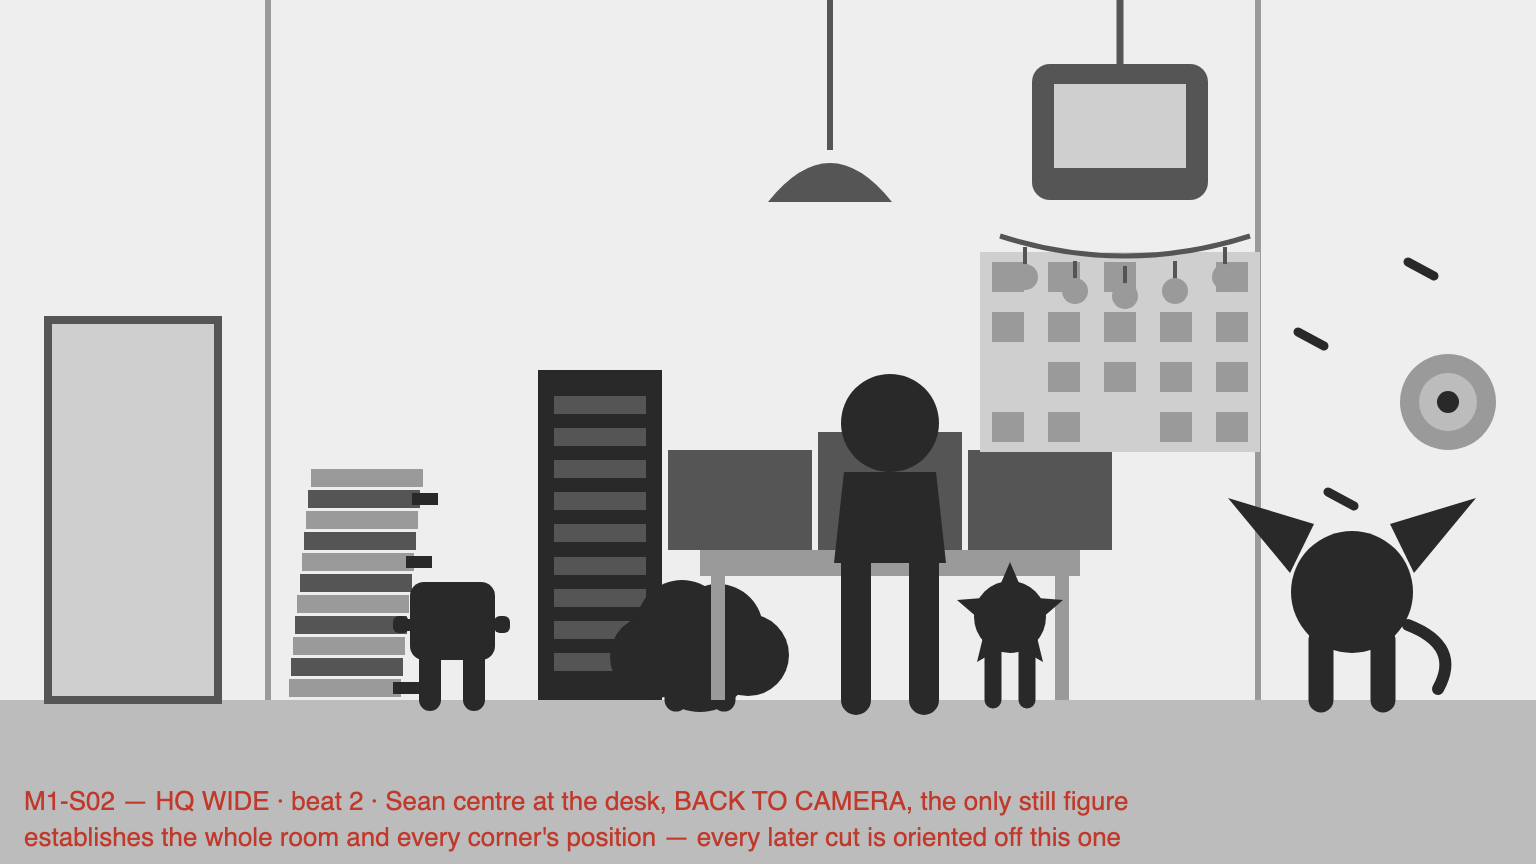
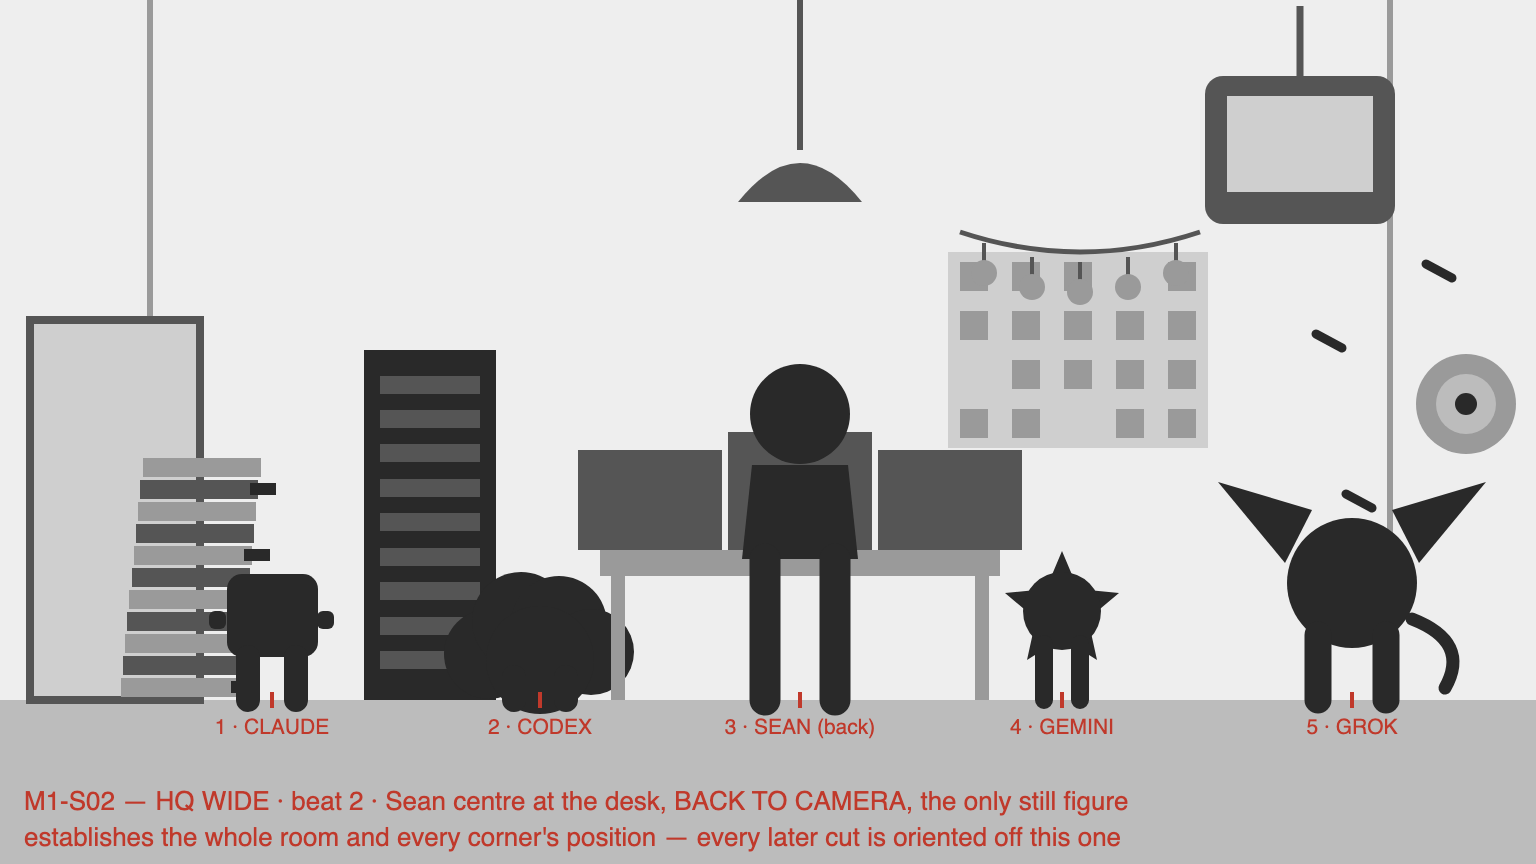
briefs(about-me-short): title cards A/D + first S02 wide under the palette clause
S02 guide respread to five labelled lanes with stated positions. Wide
generated via the reconstruction pattern (hero frame as fixture bible with
its camera excluded, guide as composition rough, lineup for designs).
Palette clause's first test: wall passes at delta 6/3/0, floor fails at
13/10/3.

diff --git a/briefs/2026-08-02-about-me-short/m1-guides/make_m1_guides.py b/briefs/2026-08-02-about-me-short/m1-guides/make_m1_guides.py
@@ -166,6 +166,16 @@ def desk3mon(cx, gy=GY, w=430):
     return s
 
 
+def mark(cx, text, y=None):
+    """A named position mark under a figure. The guide should STATE placement,
+    not imply it — the framing audit named 'scale is never stated in words' as
+    the whole problem, and the same is true of position."""
+    y = y or GY + 34
+    return (f'<path d="M{cx} {GY-8}v16" stroke="{CAPTION}" stroke-width="4"/>'
+            f'<text x="{cx}" y="{y}" font-family="Helvetica" font-size="21" '
+            f'text-anchor="middle" fill="{CAPTION}">{text}</text>')
+
+
 def doorway(x, gy=GY, w=170, h=380):
     return (f'<rect x="{x}" y="{gy-h}" width="{w}" height="{h}" fill="{FAINT}"/>'
             f'<rect x="{x}" y="{gy-h}" width="{w}" height="{h}" fill="none" '
@@ -276,17 +286,20 @@ shots["M1-S01-titlecard-guide"] = b + tail
 s, tail = head("M1-S02 — HQ WIDE · beat 2 · Sean centre at the desk, BACK TO CAMERA, "
                "the only still figure || establishes the whole room and every corner's "
                "position — every later cut is oriented off this one")
-b = s + floor() + pendant(830)
-b += corner(268) + corner(1258)
-b += doorway(48)
-# every zone gets its own lane — no character overlaps another's props
-b += paperstack(345, h=235, w=112) + claude(452, h=118)          # Claude, far left
-b += rack(600, w=124, h=330) + codex(700, h=152)                 # Codex
-b += desk3mon(890, w=380) + sean(890, h=326, back=True)          # SEAN, centre
-b += crt(1120, 132, w=176, h=136)                                # CRT high, right wall
-b += moodboard(1120, cy=352, w=280, h=200) + stringlights(1000, 1250, 236, n=5)
-b += gemini(1010, h=132)                                         # Gemini at her board
-b += dartboard(1448, 402, r=48) + grok(1352, h=178)              # Grok, far right
+b = s + floor() + pendant(800)
+b += corner(150) + corner(1390)
+b += doorway(30)                                    # EMPTY — the USER is never in it
+# Five lanes, evenly spread. x positions are stated, not implied — the prompt
+# repeats them in words, because position and scale are never inferred.
+b += paperstack(180, h=250, w=118) + claude(272, h=126)          # 1 · far left
+b += rack(430, w=132, h=350) + codex(540, h=162)                 # 2 · left of centre
+b += desk3mon(800, w=400) + sean(800, h=336, back=True)          # 3 · CENTRE
+b += moodboard(1078, cy=350, w=260, h=196) + stringlights(960, 1200, 232, n=5)
+b += gemini(1062, h=142)                                         # 4 · right of centre
+b += crt(1300, 150, w=190, h=148)                                # CRT high, right wall
+b += dartboard(1466, 404, r=50) + grok(1352, h=192)              # 5 · far right
+b += (mark(272, "1 · CLAUDE") + mark(540, "2 · CODEX") + mark(800, "3 · SEAN (back)")
+      + mark(1062, "4 · GEMINI") + mark(1352, "5 · GROK"))
 shots["M1-S02-hq-wide-guide"] = b + tail
 
 # S03 — Claude's tidy nook.
